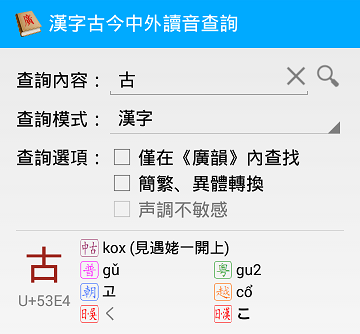
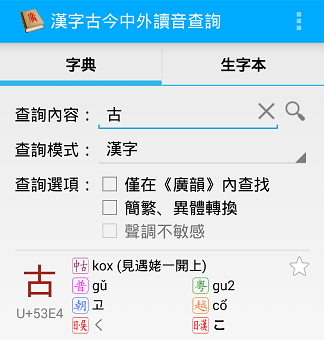
更新數據庫，發佈2.0版本

diff --git a/assets/help/index.htm b/assets/help/index.htm
@@ -41,7 +41,7 @@ function toggle(id) {
 <h1>數據來源</h1>
 
 <p>
-　　中古音來自北大中文論壇上的《<a href=http://www.pkucn.com/viewthread.php?tid=175767>廣韻全字表</a>》（鏈接現已失效）；<br>
+　　中古音來自知乎網上poem整理的《<a href=http://zhuanlan.zhihu.com/poetry/19854191>廣韻字音表</a>》（2014年9月30日版），本程序兼收了核校前、後的字頭。這份字表修正了北大中文論壇上曾有的《<a href=http://www.pkucn.com/viewthread.php?tid=175767>廣韻全字表</a>》（2007年4月7日版，鏈接現已失效）中的一些錯誤。不過，後者的“備考”欄提供了《廣韻》中一些字更常見的異體字形，以及《廣韻》未收但後世比較常用的字，本程序對這些字也予以收錄。需要注意的是，<a href=http://ytenx.org/>韻典網</a>上的數據是來自後者的，所以個別字的讀音與本程序略有不同。<br>
 　　簡體、繁體、異體字轉換表來自<a href=http://ytenx.org/>韻典網</a>的<a href=https://github.com/BYVoid/ytenx>GitHub開源代碼庫</a>；<br>
 　　普通話讀音來自<a href=http://www.zdic.net/>漢典網</a>；<br>
 　　粵語讀音來自<a href=http://humanum.arts.cuhk.edu.hk/Lexis/lexi-can/>粵語審音配詞字庫</a>；<br>
@@ -53,20 +53,27 @@ function toggle(id) {
 
 <h1>界面介紹</h1>
 
+<p>　　程序界面由“字典”和“生字本”兩個標籤頁組成。</p>
+
+<p>　　“字典”頁面分爲兩部分，上半部分爲輸入，下半部分爲查詢結果。</p>
+
 <p align=center><img class=example src=ex0.png></p>
 
-<p>　　程序介面分爲兩部分，上半部分爲輸入，下半部分爲查詢結果。</p>
 <p>　　在“查詢內容”欄中，可以輸入要查詢的漢字或讀音。若要同時查詢多個漢字或讀音，可以用空格隔開；若查詢內容爲漢字或朝鮮語諺文，可以不空格。</p>
 <p>　　在“查詢模式”欄中，可以指定查詢內容的類別，即漢字或某種語言的讀音。</p>
 <p>　　“查詢選項”包括以下三項：</p>
 <p>　　<b>(1) 僅在《廣韻》中查找：</b>在“查詢模式”不是“中古拼音”時有效。選中該項時，只返回《廣韻》中收錄的字，即數據庫中有中古音的字。這些字一般爲繁體字。當“查詢模式”爲“中古拼音”的時候，當然只能查到《廣韻》中的字。</p>
 <p>　　<b>(2) 簡繁、異體轉換：</b>僅在“查詢模式”爲“漢字”時有效。選中該項時，可以同時查詢所輸入漢字的簡體字、繁體字、異體字。如果在手機上輸入繁體字有困難，這個選項就很有用了。</p>
 <p>　　<b>(3) 聲調不敏感：</b>在“查詢模式”爲“中古拼音”、“普通話”、“粵語”、“越南語”時有效。選中該項時，可以同時查詢與所輸入的讀音聲母、韻母均相同但聲調不同的音節。</p>
-<p>　　查詢結果顯示了漢字的Unicode編碼及各種語言的讀音。點擊某一漢字的查詢結果可以呼出一個菜單，其中提供了去各個數據來源查詢該漢字的鏈接，如下圖。</p>
+<p>　　查詢結果顯示了漢字的Unicode編碼及各種語言的讀音。若某字的查詢結果右上角顯示一顆灰色五角星，則表示該字尚未被加入生字本，點擊灰色五角星可以將該字添加到生字本中（同時可以寫一條筆記）；若顯示一顆黃色五角星，則表示該字已在生字本中，點擊黃色五角星可以查看、修改該字的筆記，或者把該字從生字本中刪除。點擊某一漢字的查詢結果中除五角星外的部分，可以呼出一個菜單（如下圖）。利用這個菜單，可以將該字的讀音複製到剪貼板，或者去“數據來源”一節中提到的各個網站查詢該字，也可以進行生字本操作（添加、刪除、修改筆記等）。</p>
 
-<p align=center><img class=example src=dict_links.png></p>
+<p align=center><img class=example src=context_menu.png></p>
 
-<p>　　另外，按手機上的“菜單”鍵可以呼出主菜單，其中有“設置”、“幫助”、“關於”三項功能。</p>
+<p>　　“生字本”頁面如下圖所示，它顯示了生字本中每個字的添加時間和筆記，各個生字按添加時間倒序排列。點擊一個生字，可以顯示它在各種語言中的讀音。點擊一個生字右側的“<img class=icon src=file:///android_res/drawable/ic_edit.png>”按鈕，可以查看或修改該字的筆記；點擊左側的“<img class=icon src=file:///android_res/drawable/ic_cancel.png>”按鈕，可以將該字從生字本中刪除。</p>
+
+<p align=center><img class=example src=favorite.png></p>
+
+<p>　　另外，按手機上的“菜單”鍵，或按屏幕右上角的“<img class=icon src=ic_overflow.png>”按鈕（Android 4.0以前的版本沒有），可以呼出主菜單，其中有“設置”、“幫助”、“關於”三項功能。</p>
 
 <h1>查詢舉例</h1>
 

diff --git a/src/maigosoft/mcpdict/ActivityWithOptionsMenu.java b/src/maigosoft/mcpdict/ActivityWithOptionsMenu.java
@@ -32,6 +32,7 @@ public class ActivityWithOptionsMenu extends FragmentActivity {
             return true;
         case R.id.menu_item_about:
             Dialog dialog = new AlertDialog.Builder(this)
+                                .setIcon(R.drawable.ic_launcher)
                                 .setTitle(R.string.about)
                                 .setMessage(R.string.about_message)
                                 .setPositiveButton(R.string.ok, null)

diff --git a/src/maigosoft/mcpdict/MCPDatabase.java b/src/maigosoft/mcpdict/MCPDatabase.java
@@ -17,7 +17,7 @@ import com.readystatesoftware.sqliteasset.SQLiteAssetHelper;
 public class MCPDatabase extends SQLiteAssetHelper {
 
     private static final String DATABASE_NAME = "mcpdict";
-    private static final int DATABASE_VERSION = 3;
+    private static final int DATABASE_VERSION = 4;
 
     // Must be the same order as defined in the string array "search_as"
     public static final int SEARCH_AS_HZ = 0;

diff --git a/README.md b/README.md
@@ -4,6 +4,15 @@
 
 ## 版本歷史
 
+### V2.0 (2015.02.07)
+添加功能：
+1) 添加了複製漢字讀音的功能；
+2) 添加了生字本功能；
+修訂數據庫：
+1) 改用poem的《廣韻字音表》（2014年9月30日版）作爲中古音數據庫；
+2) 更新了越南語讀音數據庫；
+3) 修正了簡繁、異體字轉換表中的個別條目。
+
 ### V1.3 (2014.11.24)
 兼容低版本的Android（最低支持版本由3.0改爲1.6，但僅在2.2上做過測試）。
 
